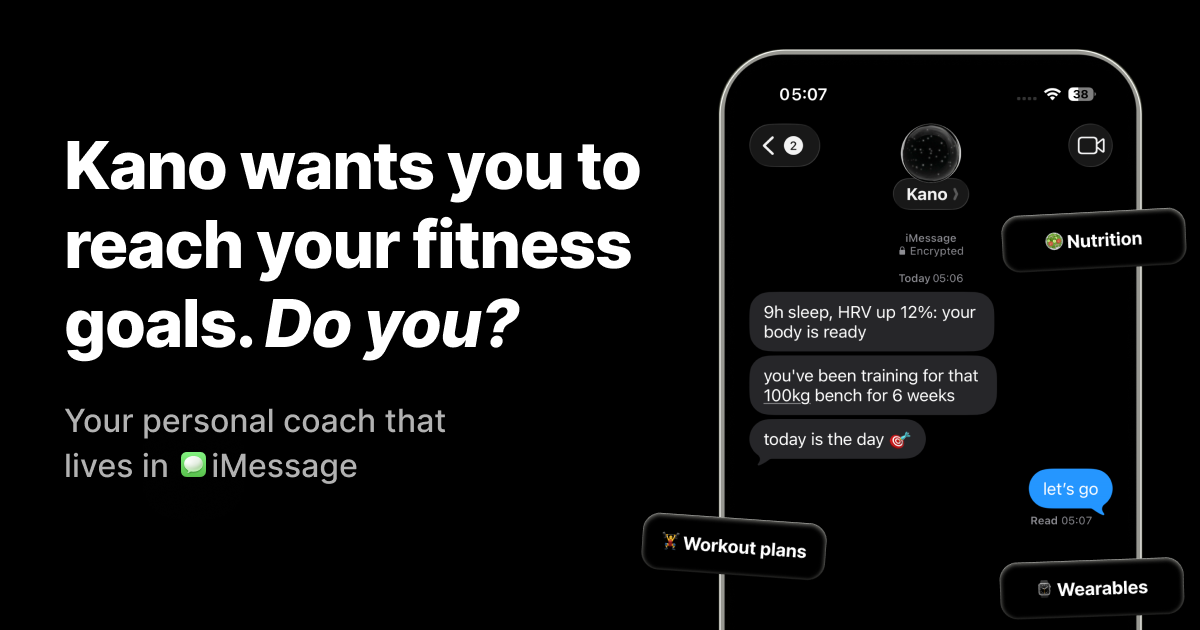
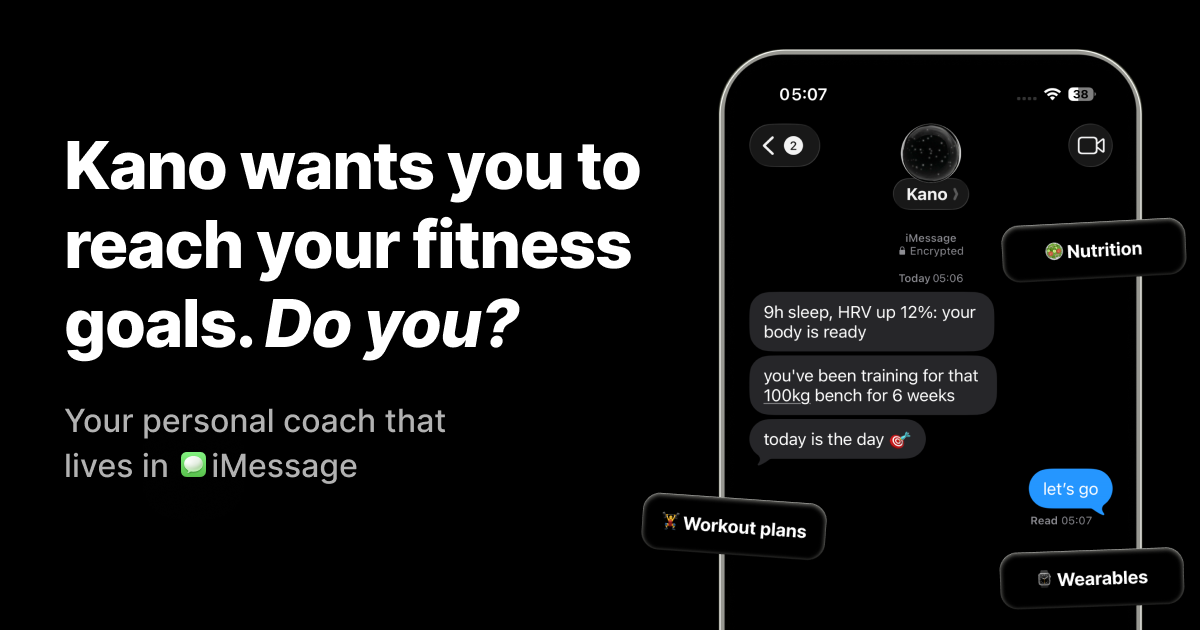
chore(lp): share title, Luke testimonial copy, refreshed preview image
- og:title + twitter:title on / changed from "Kano - Lock in. Do you?"
  to "Lock in with Kano"
- Level-up testimonial subtext: "ran his first sub-20 5K" →
  "halved his pace (7:02 to 4:06)"
- Refreshed default-preview.png

diff --git a/app/templates/index.html b/app/templates/index.html
@@ -12,14 +12,14 @@
     <!-- Open Graph -->
     <meta property="og:type" content="website" />
     <meta property="og:url" content="https://kano.fit" />
-    <meta property="og:title" content="Kano - Lock in. Do you?" />
+    <meta property="og:title" content="Lock in with Kano" />
     <meta property="og:description" content="Daily coaching and personalized training plans based on your wearable data — right in your texts." />
     <meta property="og:image" content="https://kano.fit/static/images/default-preview.png" />
     <meta property="og:site_name" content="Kano" />
 
     <!-- Twitter / X Card -->
     <meta name="twitter:card" content="summary_large_image" />
-    <meta name="twitter:title" content="Kano - Lock in. Do you?" />
+    <meta name="twitter:title" content="Lock in with Kano" />
     <meta name="twitter:description" content="Daily coaching and personalized training plans based on your wearable data — right in your texts." />
     <meta name="twitter:image" content="https://kano.fit/static/images/default-preview.png" />
 

diff --git a/app/static/js/landing.js b/app/static/js/landing.js
@@ -265,7 +265,7 @@
     "level-up": {
       person: {
         name: "Luke",
-        achievement: "ran his first sub-20 5K",
+        achievement: "halved his pace (7:02 to 4:06)",
         before: "before-luke.png",
         after: "after-luke.png",
       },